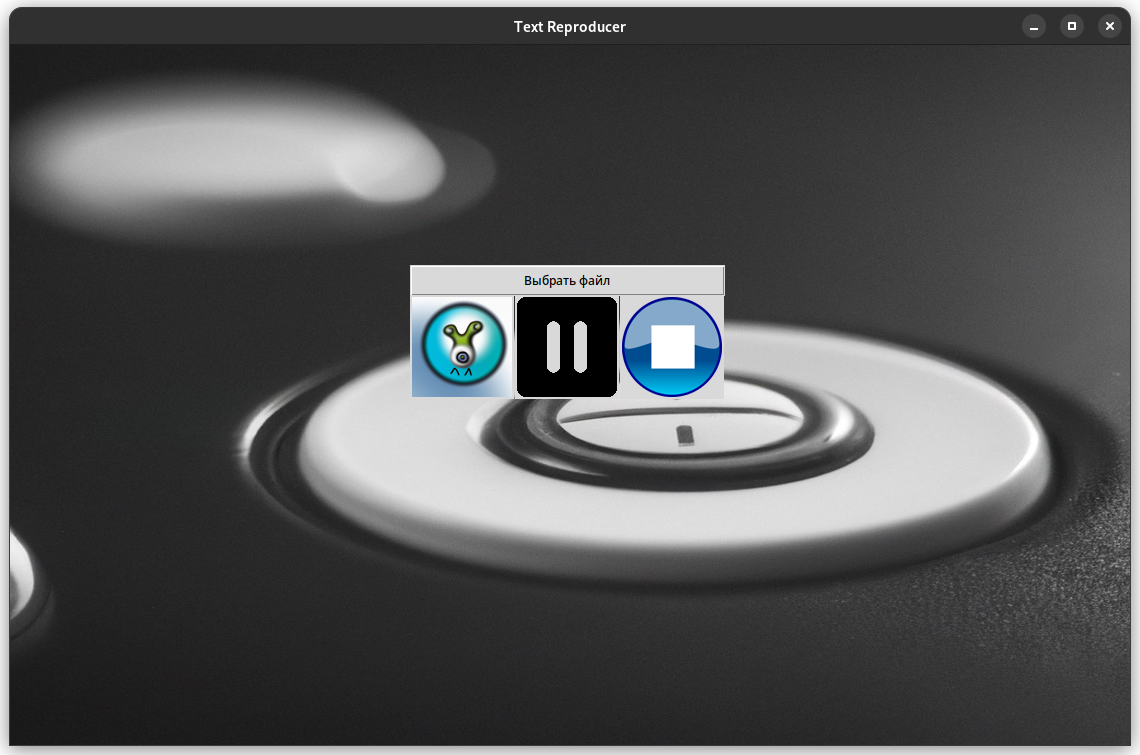
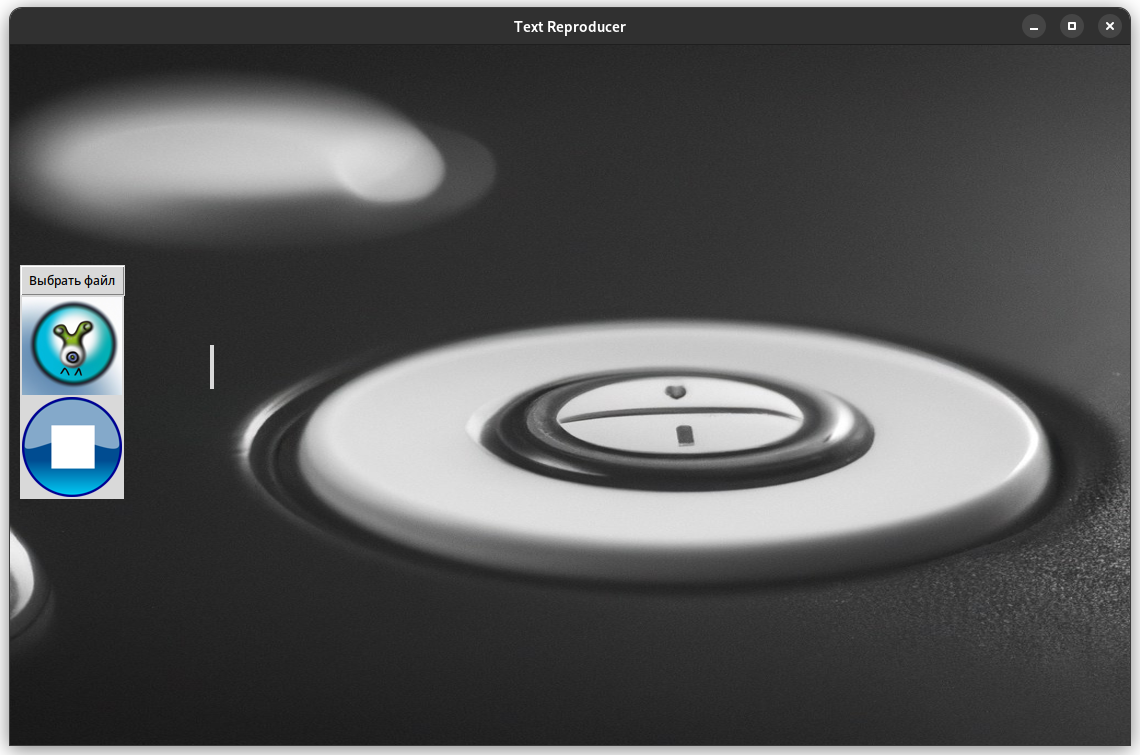
fix readme

Changed region(s): [[0.3377, 0.3351, 0.6447, 0.5483], [0.0, 0.3351, 0.1228, 0.6702], [0.1842, 0.457, 0.2149, 0.5179]]

diff --git a/README.md b/README.md
@@ -33,9 +33,8 @@ ___
   ### После запуска приоложения у нас запускается окошко:
   ![](images/app.png)
   * #### Итак, мы можем выбрать файл для воспроизведения нажав кнопку _'Выбрать файл'_.
-  * #### Самая левая кнопка запускает текущий выбранный файл или продолжает воспроизведение, если мы ранее нажали на 2-ю кнопку(кнопку паузы).
-  * #### Кнопка по середине ставит текущее воспроизведение на паузу.
-  * #### Самая правая кнопка прерывает текущее воспроизведение.
+  * #### Кнопка по середине запускает текущий файл и при воспроизведении сменяется на кнопку паузы(и наоборот).
+  * #### Нижняя кнопка прерывает текущее воспроизведение.
   * #### [Дисклеймер №1] Если вы нажимаете кнопку выбрать файл, то вы объязательно должны выбрать его, а не нажать _'cancel'_, т.е продолжить слушать текущий файл не получится, если вы поставили его на паузу, а потом в холостую выбрали файл.
   
 ---
@@ -45,40 +44,15 @@ ___
   * #### Итак, воспроизведение каждого файла происходит в отдельном процессе, этот процесс создается и запускается в функции play_text в файле [src/app/widgets_handlers.py](src/app/widgets_handlers.py):
         new_process = multiprocessing.Process(target=run, args=(last_file_path, ))
         new_process.start()
-  * #### Для того, чтобы поставить воспроизведение на паузу мы используем _'Условное выражение'_ или _'condvar'_.
-    #### --- Но зачем кондвар, если мы можем это делать с помощью булевых флажков.
-    #### А затем, чтобы не блокировать ядро операционной системы, постоянно крутясь на этом булевом флажке, у нас конечно же будет булевый флажок, но когда этот флаг будет истиным, то мы просто уснем, пока нас не разбудят([code](src/back/session.py)):
-          if is_paused:
-              with paused_cv:
-                  paused_cv.wait()
-    #### А будить мы будем в той же функции play_text ([code](src/app/widgets_handlers.py)):
-        if back.session.is_paused:
-            back.session.is_running = False
-            back.session.mutex.acquire()
-            with paused_cv:
-                paused_cv.notify_all()
-    * #### Конечно же нам нужны булевый флажки и мьютекс:
-    * #### is_running - для отслеживания нажатия пользователем кнопки _stop_  
-    * #### is_paused - для отслеживания нажатия пользователем кнопки _pause_
-    * #### Мьютекс нужен же в том случае, когда мы поставили на паузу текущее воспроизведение, а потом выбрали новый файл для воспроизведения, в этом случае нам сначала нужно остановить предыдущий поток, если мы это не будем контролировать с помощью мьютекса, то эти 2 потока будут конкурировать между собой и будет _data race_, на этих булевых флажках ([code](src/app/widgets_handlers.py)):
-          if is_new_file:
-              if back.session.is_paused:
-                  ...
-                  back.session.mutex.acquire() <- берем мьютекс перед остановкой старого потока
-                  with paused_cv:
-                      paused_cv.notify_all() <- ждущий поток отпустит мьютекс и уничтожится
-
-              back.session.mutex.acquire() <- снова берем мьютекс или блокируемся пока старый поток не остановится
-              ... (start new thread)
-              back.session.mutex.release() <- отпускаем мьютекс
-    * #### Флаги _is_running_, _is_paused_, _mutex_ хранится в файле [back/session](src/back/session.py) как глобальные переменные, _condvar_ можно было бы хранить также, но я решил хранить его как поле класса _App_.
-  * #### Для остановки воспроизведения мы просто меняем состояние булевого флага и запущенный обработчик(поток) завершится. Дело в том что у нас идет воспроизведение по словам, и обработчик на каждом слове проверяет валидность флажка, поэтому если закинуть файл с бесконечным количеством одной букв без пробела, то остановить или поставить на паузу не получится([code](src/back/session.py))(Пока ничего лучше я не придумал):
-        for word in words:
-            if is_paused:
-                ...
-
-            if not is_running:
-                ...    
+  * #### Для того, чтобы поставить воспроизведение на паузу мы используем сигнал _'SIGSTOP'_.
+        if last_process_pid != -1:
+            os.kill(last_process_pid, signal.SIGSTOP)
+    #### А будить мы будем c помощью сигнала _'SIGCONT'_ ([code](src/app/widgets_handlers.py)):
+        elif last_process_pid != -1:
+            os.kill(last_process_pid, signal.SIGCONT)
+  * #### Для остановки воспроизведения мы используем сигнал _'SIGKILL'_(просто убиваю запущенный процесс):
+        if last_process_pid != -1:
+            os.kill(last_process_pid, signal.SIGKILL)
 ## Теперь про структуру
      <project>
       |-- src
@@ -101,4 +75,4 @@ ___
   * #### В [main.py](src/main.py) создается экземпляр класса _App_ после вызывается метод _Run_, в котором все инициализируется и запускается окошко.
   * #### К каждой кнопке подвешивается свой хэндлер, все хэндлеры и вспомогательные функции объявлены в файле [widgets_handlers.py](src/app/widgets_handlers.py).  
   * #### В файле [back/session.py](src/back/session.py) реализуется класс _Session_, который в своем методе воспроизводит переданный файл с помощью библиотеки [pyttsx3](https://pypi.org/project/pyttsx3/).
-  * #### В обработчике кнопки старт создается тред, в который для исполнения передается функция _Run_ из файла [back/text_reproducer.py](src/back/text_reproducer.py) в котором создается обеъкт класса [_Session_](src/back/session.py) и вызывается метод _Run_.
+  * #### В обработчике кнопки старт создается процесс, в который для исполнения передается функция _Run_ из файла [back/text_reproducer.py](src/back/text_reproducer.py) в котором создается обеъкт класса [_Session_](src/back/session.py) и вызывается метод _Run_.
